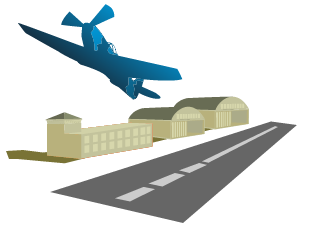
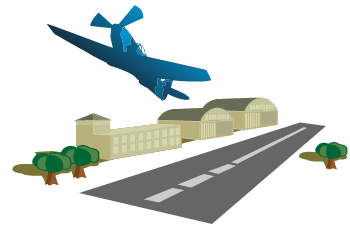
update to footer with trees and change to footer grid widths

diff --git a/output/about.html b/output/about.html
@@ -198,7 +198,7 @@
 	
 	<div id="footer">
 		<div class="container_12">
-			<div class="grid_8">
+			<div class="grid_7">
 				<div id="footerContent">
 					<div id="footerNav">
 						<ul>
@@ -215,7 +215,7 @@
 					<div class="clear"></div>
 				</div>
 			</div>
-			<div class="grid_4">
+			<div class="grid_5">
 				<div class="spitfireAndRunway"></div>
 			</div>
 			<div class="clear"></div>

diff --git a/output/contact.html b/output/contact.html
@@ -120,7 +120,7 @@
 	
 	<div id="footer">
 		<div class="container_12">
-			<div class="grid_8">
+			<div class="grid_7">
 				<div id="footerContent">
 					<div id="footerNav">
 						<ul>
@@ -137,7 +137,7 @@
 					<div class="clear"></div>
 				</div>
 			</div>
-			<div class="grid_4">
+			<div class="grid_5">
 				<div class="spitfireAndRunway"></div>
 			</div>
 			<div class="clear"></div>

diff --git a/output/index.html b/output/index.html
@@ -164,7 +164,7 @@
 	
 	<div id="footer">
 		<div class="container_12">
-			<div class="grid_8">
+			<div class="grid_7">
 				<div id="footerContent">
 					<div id="footerNav">
 						<ul>
@@ -181,7 +181,7 @@
 					<div class="clear"></div>
 				</div>
 			</div>
-			<div class="grid_4">
+			<div class="grid_5">
 				<div class="spitfireAndRunway"></div>
 			</div>
 			<div class="clear"></div>

diff --git a/output/portfolio.html b/output/portfolio.html
@@ -231,7 +231,7 @@
 	
 	<div id="footer">
 		<div class="container_12">
-			<div class="grid_8">
+			<div class="grid_7">
 				<div id="footerContent">
 					<div id="footerNav">
 						<ul>
@@ -248,7 +248,7 @@
 					<div class="clear"></div>
 				</div>
 			</div>
-			<div class="grid_4">
+			<div class="grid_5">
 				<div class="spitfireAndRunway"></div>
 			</div>
 			<div class="clear"></div>

diff --git a/output/portfolio/annmotte.html b/output/portfolio/annmotte.html
@@ -141,7 +141,7 @@
 	
 	<div id="footer">
 		<div class="container_12">
-			<div class="grid_8">
+			<div class="grid_7">
 				<div id="footerContent">
 					<div id="footerNav">
 						<ul>
@@ -158,7 +158,7 @@
 					<div class="clear"></div>
 				</div>
 			</div>
-			<div class="grid_4">
+			<div class="grid_5">
 				<div class="spitfireAndRunway"></div>
 			</div>
 			<div class="clear"></div>

diff --git a/output/portfolio/charlottejones.html b/output/portfolio/charlottejones.html
@@ -139,7 +139,7 @@
 	
 	<div id="footer">
 		<div class="container_12">
-			<div class="grid_8">
+			<div class="grid_7">
 				<div id="footerContent">
 					<div id="footerNav">
 						<ul>
@@ -156,7 +156,7 @@
 					<div class="clear"></div>
 				</div>
 			</div>
-			<div class="grid_4">
+			<div class="grid_5">
 				<div class="spitfireAndRunway"></div>
 			</div>
 			<div class="clear"></div>

diff --git a/output/portfolio/darylbusch.html b/output/portfolio/darylbusch.html
@@ -140,7 +140,7 @@
 	
 	<div id="footer">
 		<div class="container_12">
-			<div class="grid_8">
+			<div class="grid_7">
 				<div id="footerContent">
 					<div id="footerNav">
 						<ul>
@@ -157,7 +157,7 @@
 					<div class="clear"></div>
 				</div>
 			</div>
-			<div class="grid_4">
+			<div class="grid_5">
 				<div class="spitfireAndRunway"></div>
 			</div>
 			<div class="clear"></div>

diff --git a/output/portfolio/edwinmatthews.html b/output/portfolio/edwinmatthews.html
@@ -139,7 +139,7 @@
 	
 	<div id="footer">
 		<div class="container_12">
-			<div class="grid_8">
+			<div class="grid_7">
 				<div id="footerContent">
 					<div id="footerNav">
 						<ul>
@@ -156,7 +156,7 @@
 					<div class="clear"></div>
 				</div>
 			</div>
-			<div class="grid_4">
+			<div class="grid_5">
 				<div class="spitfireAndRunway"></div>
 			</div>
 			<div class="clear"></div>

diff --git a/output/portfolio/hemetflightcenter.html b/output/portfolio/hemetflightcenter.html
@@ -142,7 +142,7 @@
 	
 	<div id="footer">
 		<div class="container_12">
-			<div class="grid_8">
+			<div class="grid_7">
 				<div id="footerContent">
 					<div id="footerNav">
 						<ul>
@@ -159,7 +159,7 @@
 					<div class="clear"></div>
 				</div>
 			</div>
-			<div class="grid_4">
+			<div class="grid_5">
 				<div class="spitfireAndRunway"></div>
 			</div>
 			<div class="clear"></div>

diff --git a/output/portfolio/hrassist.html b/output/portfolio/hrassist.html
@@ -141,7 +141,7 @@
 	
 	<div id="footer">
 		<div class="container_12">
-			<div class="grid_8">
+			<div class="grid_7">
 				<div id="footerContent">
 					<div id="footerNav">
 						<ul>
@@ -158,7 +158,7 @@
 					<div class="clear"></div>
 				</div>
 			</div>
-			<div class="grid_4">
+			<div class="grid_5">
 				<div class="spitfireAndRunway"></div>
 			</div>
 			<div class="clear"></div>

diff --git a/output/portfolio/jacobshouse.html b/output/portfolio/jacobshouse.html
@@ -142,7 +142,7 @@
 	
 	<div id="footer">
 		<div class="container_12">
-			<div class="grid_8">
+			<div class="grid_7">
 				<div id="footerContent">
 					<div id="footerNav">
 						<ul>
@@ -159,7 +159,7 @@
 					<div class="clear"></div>
 				</div>
 			</div>
-			<div class="grid_4">
+			<div class="grid_5">
 				<div class="spitfireAndRunway"></div>
 			</div>
 			<div class="clear"></div>

diff --git a/output/portfolio/millerjones.html b/output/portfolio/millerjones.html
@@ -149,7 +149,7 @@
 	
 	<div id="footer">
 		<div class="container_12">
-			<div class="grid_8">
+			<div class="grid_7">
 				<div id="footerContent">
 					<div id="footerNav">
 						<ul>
@@ -166,7 +166,7 @@
 					<div class="clear"></div>
 				</div>
 			</div>
-			<div class="grid_4">
+			<div class="grid_5">
 				<div class="spitfireAndRunway"></div>
 			</div>
 			<div class="clear"></div>
